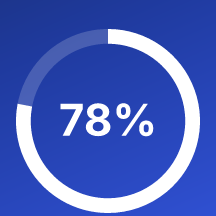
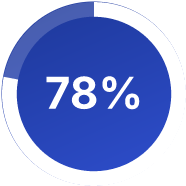
fix(home): remove square border artifact around 78% readiness gauge with circular alpha mask

diff --git a/src/screens/home/HomeScreen.tsx b/src/screens/home/HomeScreen.tsx
@@ -167,11 +167,14 @@ export const HomeScreen: React.FC = () => {
             {/* Circular Readiness Gauge */}
             <View style={styles.heroRight}>
               <Image
-                source={require('../../../assets/mockup-art/gauge-ring-vector.png')}
+                source={
+                  isDark
+                    ? require('../../../assets/mockup-art/gauge-ring-dark.png')
+                    : require('../../../assets/mockup-art/gauge-ring-light.png')
+                }
                 style={styles.gaugeImage}
                 resizeMode="contain"
               />
-              <Text style={styles.gaugeText}>78%</Text>
             </View>
           </LinearGradient>
 
